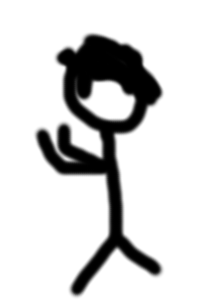
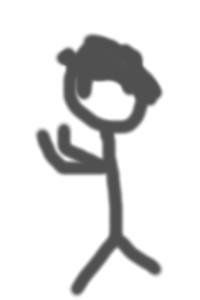
Added floor texture (need to find credits for the texture and add them to README.md) Background is now black in prep for performance (had to lighten the preview images

Changed region(s): [[0.18, 0.09, 0.81, 0.99]]

diff --git a/server/vote/static/projector/js/startup.js b/server/vote/static/projector/js/startup.js
@@ -16,9 +16,9 @@ function build_scene() {
     
     $.each(battlescape.data.players ,function(i, player_id){
         var actor = battlescape.game.get_actors()[player_id];
-        actor.CSS3DObject.position.x = -200 + (200*i);
+        actor.CSS3DObject.position.x = 0 + (200*i);
         actor.CSS3DObject.position.y = 0;
-        actor.CSS3DObject.position.z = 200 + (200*i);
+        actor.CSS3DObject.position.z = -300 + (200*i);
         scene.add(actor.CSS3DObject);
     });
     
@@ -26,10 +26,22 @@ function build_scene() {
         var actor = battlescape.game.get_actors()[enemy_id];
         actor.CSS3DObject.position.x = -500 - (200*i);
         actor.CSS3DObject.position.y = 0;
-        actor.CSS3DObject.position.z = 500 + (200*i);
+        actor.CSS3DObject.position.z = 0 + (200*i);
         scene.add(actor.CSS3DObject);
     });
 
+    var dom = document.createElement('div');
+    dom.style.width = battlescape.data.enviroment.floor.size+'px';
+    dom.style.height = dom.style.width;
+    dom.style.backgroundImage = "url('images/textures/"+battlescape.data.enviroment.floor.texture+"')";
+    floor_CSS3DObject = new THREE.CSS3DObject(dom);
+    floor_CSS3DObject.position.x = 0;
+    floor_CSS3DObject.position.y = -150;
+    floor_CSS3DObject.position.z = 0;
+    floor_CSS3DObject.rotation.x = Math.PI/2;
+    scene.add(floor_CSS3DObject);
+    battlescape.doom = dom;
+    
 }
 // Init ------------------------------------------------------------------------
 //setup_actors();

diff --git a/server/vote/static/projector/data.js b/server/vote/static/projector/data.js
@@ -35,6 +35,12 @@ var data = {
             }
         },
     },
+    enviroment: {
+        floor: {
+            texture: 'rock_stones_0079_01_preview.jpg',
+            size: 2000,
+        },
+    },
     characters: {
         'player1': {
             name: 'Axe Specalist',

diff --git a/server/vote/static/projector/battlescape.css b/server/vote/static/projector/battlescape.css
@@ -13,7 +13,7 @@ body {
 
 html {
 	overflow: hidden;
-	background-color: #ccc;
+	background-color: black;
 }
 
 ul, li {
